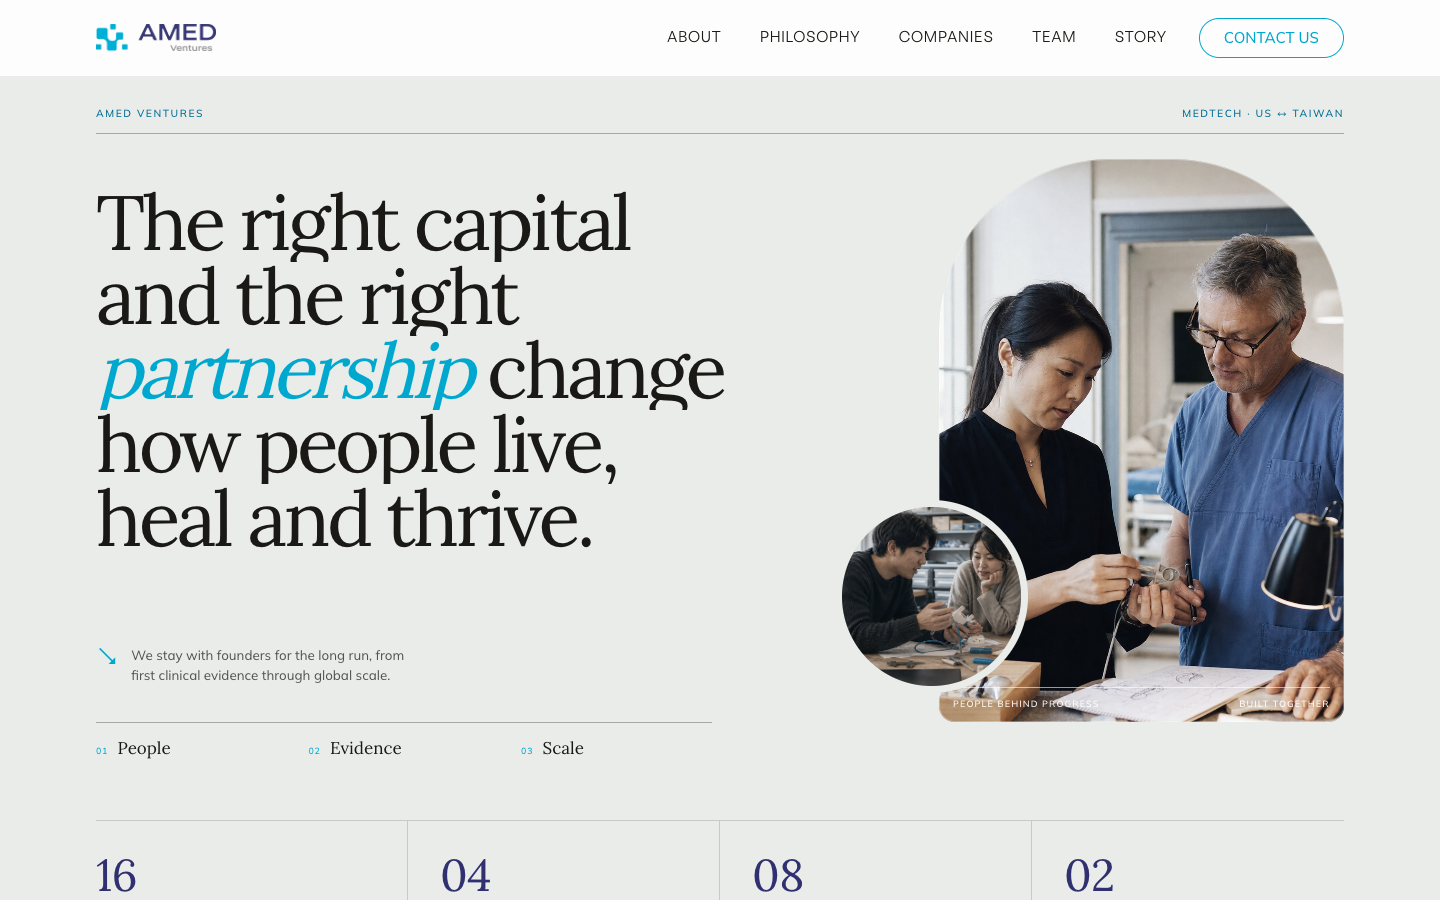
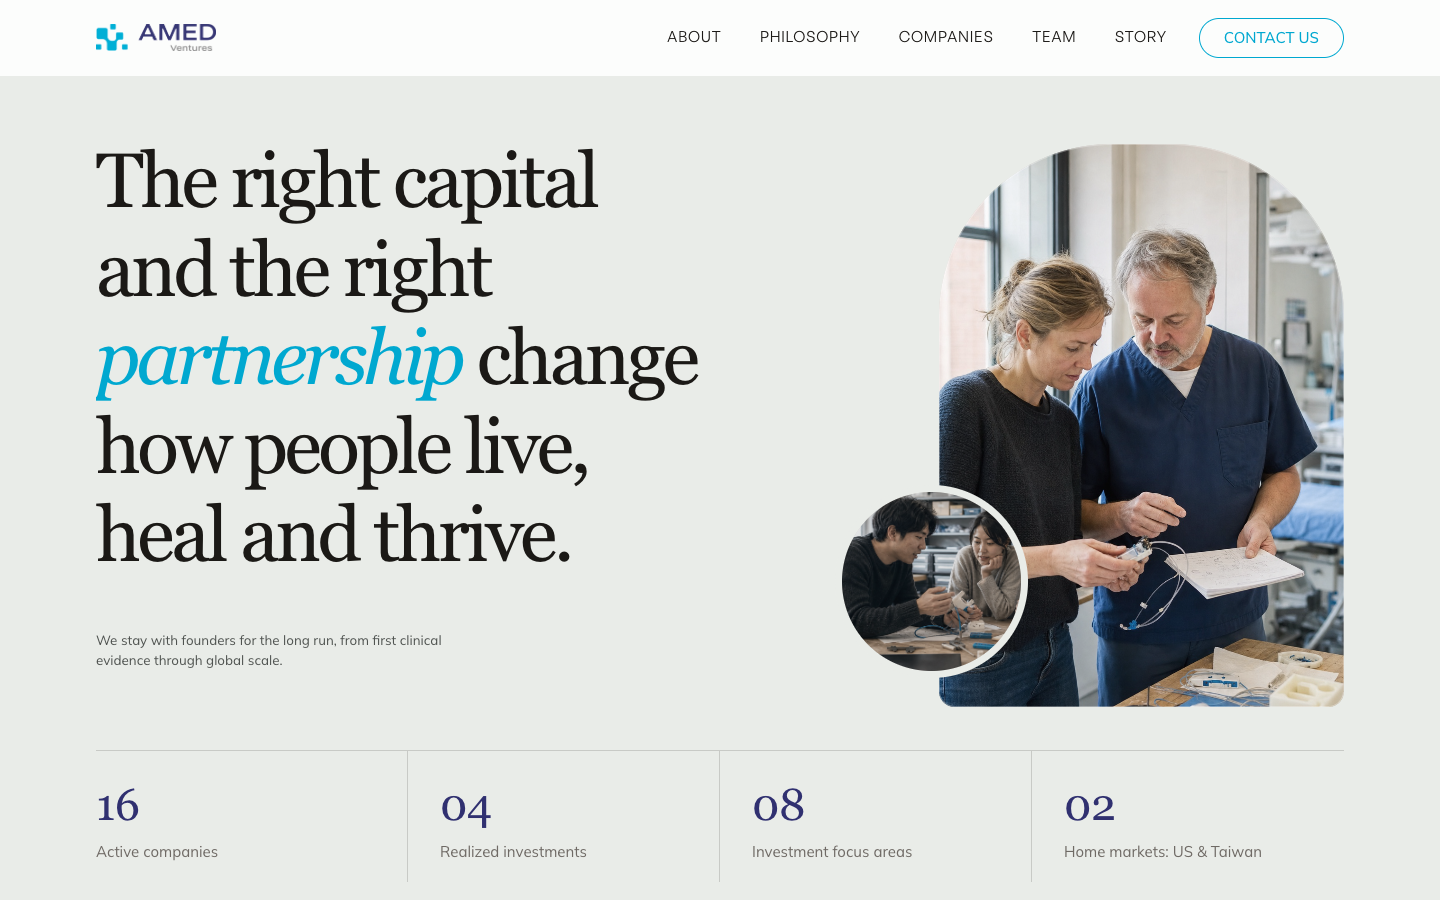
Refine concept C hero photography and details

diff --git a/src/app/c/page.module.css b/src/app/c/page.module.css
@@ -111,11 +111,10 @@
 /* Only the hero differs from B. The cover-like composition combines an enduring-partnership
    voice, generous institutional typography and close documentary observation of the builders. */
 .heroHuman { overflow: hidden; background: #e9ece8; }
-.heroHuman .heroEditorial { min-height: 58vw; padding-top: 7.55vw; display: grid; grid-template-columns: repeat(12, minmax(0, 1fr)); grid-template-rows: auto auto auto auto; column-gap: 1.1vw; }
-.heroEditorialLabel { grid-column: 1 / -1; grid-row: 1; padding-bottom: 1vw; display: flex; justify-content: space-between; border-bottom: 1px solid rgba(27,25,22,.32); color: var(--brand-deep); font: 500 .72vw/1 "Mulish", sans-serif; letter-spacing: .15em; text-transform: uppercase; opacity: 0; animation: cFade .8s .05s var(--ease-out) forwards; }
-.heroEditorialCopy { z-index: 2; grid-column: 1 / 9; grid-row: 2; padding: 3.7vw 0 2.5vw; align-self: stretch; display: flex; flex-direction: column; }
+.heroHuman .heroEditorial { min-height: 54vw; padding-top: 10vw; display: grid; grid-template-columns: repeat(12, minmax(0, 1fr)); grid-template-rows: auto auto; column-gap: 1.1vw; }
+.heroEditorialCopy { z-index: 2; grid-column: 1 / 9; grid-row: 1; padding: 0 0 2.5vw; align-self: stretch; display: flex; flex-direction: column; }
 .heroEditorialCopy h1 { margin: 0; color: var(--ink-b); font: 400 5.35vw/.87 var(--serif); letter-spacing: -.045em; }
-.heroEditorialCopy h1 > span { display: block; overflow: hidden; padding: 0 .08em .09em 0; }
+.heroEditorialCopy h1 > span { display: block; overflow: hidden; margin: -.12em 0; padding: .16em .08em .24em 0; }
 .heroEditorialCopy h1 > span > span { display: block; transform: translateY(112%); animation: cLine 1s var(--ease-out) forwards; }
 .heroEditorialCopy h1 > span:nth-child(1) > span { animation-delay: .12s; }
 .heroEditorialCopy h1 > span:nth-child(2) > span { animation-delay: .19s; }
@@ -123,27 +122,21 @@
 .heroEditorialCopy h1 > span:nth-child(4) > span { animation-delay: .33s; }
 .heroEditorialCopy h1 > span:nth-child(5) > span { animation-delay: .4s; }
 .heroEditorialCopy h1 em { color: var(--brand); font-style: italic; font-weight: 400; letter-spacing: -.055em; }
-.heroEditorialNote { width: 22vw; margin-top: auto; padding-top: 3.5vw; display: grid; grid-template-columns: auto 1fr; gap: .9vw; align-items: start; color: #4f5350; opacity: 0; transform: translateY(1vw); animation: cNote .9s .72s var(--ease-out) forwards; }
-.heroEditorialNote > span { color: var(--brand); font: 300 1.55vw/1 "Mulish", sans-serif; }
+.heroEditorialNote { width: 25vw; margin-top: auto; padding-top: 3.5vw; color: #4f5350; opacity: 0; transform: translateY(1vw); animation: cNote .9s .72s var(--ease-out) forwards; }
 .heroEditorialNote p { margin: 0; font: 400 .93vw/1.55 "Mulish", sans-serif; }
-.heroEditorialPortrait { position: relative; z-index: 1; grid-column: 9 / -1; grid-row: 2; width: 100%; margin: 1.7vw 0 0; align-self: start; overflow: hidden; aspect-ratio: .72; border-radius: 12vw 12vw 1.1vw 1.1vw; background: #d7d4ce; opacity: 0; transform: translateY(2vw); animation: cPortrait 1.15s .16s var(--ease-out) forwards; }
+.heroEditorialPortrait { position: relative; z-index: 1; grid-column: 9 / -1; grid-row: 1; width: 100%; margin: 0; align-self: start; overflow: hidden; aspect-ratio: .72; border-radius: 12vw 12vw 1.1vw 1.1vw; background: #d7d4ce; opacity: 0; transform: translateY(2vw); animation: cPortrait 1.15s .16s var(--ease-out) forwards; }
 .heroEditorialPortrait::after { content: ""; position: absolute; inset: 0; border: 1px solid rgba(255,255,255,.32); border-radius: inherit; pointer-events: none; }
-.heroEditorialPortrait img { width: 100%; height: 100%; object-fit: cover; object-position: 50% 45%; filter: saturate(.82) contrast(.97); }
-.heroEditorialPortrait figcaption { position: absolute; right: 1vw; bottom: 1vw; left: 1vw; padding-top: .75vw; display: flex; justify-content: space-between; border-top: 1px solid rgba(255,255,255,.58); color: #fff; font: 500 .63vw/1 "Mulish", sans-serif; letter-spacing: .12em; text-transform: uppercase; text-shadow: 0 1px 14px rgba(0,0,0,.28); }
-.heroEditorialDetail { position: relative; z-index: 3; grid-column: 7 / 10; grid-row: 2; width: 13.4vw; margin: 0 0 2vw; align-self: end; justify-self: end; overflow: hidden; aspect-ratio: 1; border: .55vw solid #e9ece8; border-radius: 50%; background: #d7d4ce; opacity: 0; transform: translateY(1.5vw); animation: cDetail 1s .55s var(--ease-out) forwards; }
+.heroEditorialPortrait img { width: 100%; height: 100%; object-fit: cover; object-position: 50% 45%; filter: saturate(.86) contrast(.96) brightness(1.03); }
+.heroEditorialDetail { position: relative; z-index: 3; grid-column: 7 / 10; grid-row: 1; width: 13.4vw; margin: 0 0 2vw; align-self: end; justify-self: end; overflow: hidden; aspect-ratio: 1; border: .55vw solid #e9ece8; border-radius: 50%; background: #d7d4ce; opacity: 0; transform: translateY(1.5vw); animation: cDetail 1s .55s var(--ease-out) forwards; }
 .heroEditorialDetail img { width: 100%; height: 100%; object-fit: cover; object-position: 34% center; filter: saturate(.72) contrast(.96); }
-.heroEditorialIndex { grid-column: 1 / 7; grid-row: 3; padding: 1.15vw 0 1.6vw; display: grid; grid-template-columns: repeat(3, 1fr); gap: 1.5vw; border-top: 1px solid rgba(27,25,22,.32); }
-.heroEditorialIndex div { display: grid; grid-template-columns: auto 1fr; gap: .65vw; align-items: baseline; }
-.heroEditorialIndex span { color: var(--brand); font: 500 .62vw/1 "Mulish", sans-serif; letter-spacing: .08em; }
-.heroEditorialIndex strong { color: var(--ink-b); font: 400 1.18vw/1 var(--serif); }
-.heroEditorial > .stats { grid-column: 1 / -1; grid-row: 4; }
+.heroEditorial > .stats { grid-column: 1 / -1; grid-row: 2; margin-top: 3vw; }
 @keyframes cLine { to { transform: none; } }
 @keyframes cFade { to { opacity: 1; } }
 @keyframes cNote { to { opacity: 1; transform: none; } }
 @keyframes cPortrait { to { opacity: 1; transform: none; } }
 @keyframes cDetail { to { opacity: 1; transform: none; } }
 @media (prefers-reduced-motion: reduce) {
-  .heroEditorialLabel, .heroEditorialCopy h1 > span > span, .heroEditorialNote, .heroEditorialPortrait, .heroEditorialDetail { opacity: 1; transform: none; animation: none; }
+  .heroEditorialCopy h1 > span > span, .heroEditorialNote, .heroEditorialPortrait, .heroEditorialDetail { opacity: 1; transform: none; animation: none; }
 }
 
 /* Four ruled columns under the hero — the same divider rhythm the rest of the site uses. */
@@ -574,21 +567,14 @@
   .headerCta { height: 2.4rem; padding: 0 1rem; display: inline-flex; align-items: center; font-size: .75rem; letter-spacing: .04em; }
   .backToTop { right: .75rem; bottom: .75rem; width: 2.275rem; height: 2.275rem; }
   .hero { padding: 7rem 0 .75rem; }
-  .heroHuman .heroEditorial { min-height: 0; padding-top: 6.5rem; grid-template-columns: repeat(8, minmax(0, 1fr)); grid-template-rows: auto auto auto auto auto; column-gap: .75rem; }
-  .heroEditorialLabel { padding-bottom: .8rem; font-size: .64rem; }
-  .heroEditorialCopy { grid-column: 1 / 6; grid-row: 2; padding: 2.6rem 0 2rem; }
+  .heroHuman .heroEditorial { min-height: 0; padding-top: 7.5rem; grid-template-columns: repeat(8, minmax(0, 1fr)); grid-template-rows: auto auto; column-gap: .75rem; }
+  .heroEditorialCopy { grid-column: 1 / 6; grid-row: 1; padding: 0 0 2rem; }
   .heroEditorialCopy h1 { font-size: clamp(3.15rem, 7.45vw, 4.25rem); line-height: .91; }
-  .heroEditorialNote { width: min(19rem, 72%); margin-top: 2.5rem; padding-top: 0; gap: .75rem; }
-  .heroEditorialNote > span { font-size: 1.25rem; }
+  .heroEditorialNote { width: min(19rem, 72%); margin-top: 2.5rem; padding-top: 0; }
   .heroEditorialNote p { font-size: .9rem; }
-  .heroEditorialPortrait { grid-column: 6 / -1; grid-row: 2; margin-top: 2.4rem; aspect-ratio: .7; border-radius: 8rem 8rem .8rem .8rem; }
-  .heroEditorialPortrait figcaption { right: .75rem; bottom: .75rem; left: .75rem; padding-top: .6rem; font-size: .55rem; }
-  .heroEditorialDetail { grid-column: 5 / 7; grid-row: 2; width: 8rem; margin-bottom: 1.5rem; border-width: .35rem; }
-  .heroEditorialIndex { grid-column: 1 / 6; grid-row: 3; padding: 1rem 0 1.25rem; gap: 1rem; }
-  .heroEditorialIndex div { gap: .4rem; }
-  .heroEditorialIndex span { font-size: .55rem; }
-  .heroEditorialIndex strong { font-size: .95rem; }
-  .heroEditorial > .stats { grid-row: 5; }
+  .heroEditorialPortrait { grid-column: 6 / -1; grid-row: 1; margin-top: 0; aspect-ratio: .7; border-radius: 8rem 8rem .8rem .8rem; }
+  .heroEditorialDetail { grid-column: 5 / 7; grid-row: 1; width: 8rem; margin-bottom: 1.5rem; border-width: .35rem; }
+  .heroEditorial > .stats { grid-row: 2; }
   .contactPoints, .firmInner { grid-template-columns: 1fr; }
   .firmInner { gap: 2px; }
   .firmEvidence, .firmStatement { min-height: auto; padding: 2rem 1.5rem; }
@@ -649,20 +635,15 @@
 
 @media (max-width: 640px) {
   .aboutInner { grid-template-columns: 1fr; }
-  .heroHuman .heroEditorial { display: grid; grid-template-columns: repeat(6, minmax(0, 1fr)); padding-top: 5.75rem; }
-  .heroEditorialLabel span:last-child { display: none; }
-  .heroEditorialCopy { z-index: 4; grid-column: 1 / -1; grid-row: 2; padding: 2rem 0 1.65rem; }
+  .heroHuman .heroEditorial { display: grid; grid-template-columns: repeat(6, minmax(0, 1fr)); grid-template-rows: auto auto auto; padding-top: 6.5rem; }
+  .heroEditorialCopy { z-index: 4; grid-column: 1 / -1; grid-row: 1; padding: 0 0 1.65rem; }
   .heroEditorialCopy h1 { font-size: clamp(2.8rem, 13.3vw, 4rem); line-height: .89; }
   .heroEditorialCopy h1 > span:nth-child(3) { padding-right: 0; }
   .heroEditorialCopy h1 em { color: var(--brand-deep); }
   .heroEditorialNote { width: 62%; margin-top: 2rem; }
-  .heroEditorialPortrait { grid-column: 3 / -1; grid-row: 3; margin: 0; aspect-ratio: .72; border-radius: 9rem 9rem .75rem .75rem; }
-  .heroEditorialPortrait figcaption { font-size: .48rem; }
-  .heroEditorialPortrait figcaption span:last-child { display: none; }
-  .heroEditorialDetail { grid-column: 1 / 4; grid-row: 3; z-index: 3; width: 7.5rem; margin: 0 0 1.5rem; align-self: end; justify-self: start; }
-  .heroEditorialIndex { grid-column: 1 / -1; grid-row: 4; padding-top: 1.2rem; }
-  .heroEditorialIndex strong { font-size: .82rem; }
-  .heroEditorial > .stats { grid-row: 5; }
+  .heroEditorialPortrait { grid-column: 3 / -1; grid-row: 2; margin: 0; aspect-ratio: .72; border-radius: 9rem 9rem .75rem .75rem; }
+  .heroEditorialDetail { grid-column: 1 / 4; grid-row: 2; z-index: 3; width: 7.5rem; margin: 0 0 1.5rem; align-self: end; justify-self: start; }
+  .heroEditorial > .stats { grid-row: 3; }
   .dialogWordmark { font-size: 2.15rem; }
   .dialogCopy { font-size: 17px; line-height: 1.55; }
   .dialogFacts { grid-template-columns: 1fr 1fr; align-items: baseline; gap: .45rem 1rem; }

diff --git a/src/app/c/page.tsx b/src/app/c/page.tsx
@@ -379,11 +379,6 @@ export default function ProposalC() {
 
       <section className={`${styles.heroBand} ${styles.heroHuman}`}>
         <div className={`${styles.section} ${styles.hero} ${styles.heroEditorial}`}>
-          <div className={styles.heroEditorialLabel}>
-            <span>AMED Ventures</span>
-            <span>MedTech · US ↔ Taiwan</span>
-          </div>
-
           <div className={styles.heroEditorialCopy}>
             <h1 aria-label="The right capital and the right partnership change how people live, heal and thrive.">
               <span><span>The right capital</span></span>
@@ -393,34 +388,23 @@ export default function ProposalC() {
               <span><span>heal and thrive.</span></span>
             </h1>
             <div className={styles.heroEditorialNote}>
-              <span aria-hidden>↘</span>
               <p>We stay with founders for the long run, from first clinical evidence through global scale.</p>
             </div>
           </div>
 
           <figure className={styles.heroEditorialPortrait}>
             <Image
-              src="/images/amed/hero-c-editorial-v2.jpg"
-              alt="A medical-device founder and clinician carefully reviewing a prototype together"
+              src="/images/amed/hero-c-editorial-v3.jpg"
+              alt="A medical-device founder and clinician reviewing a prototype together in natural daylight"
               width={972}
               height={1619}
               priority
             />
-            <figcaption>
-              <span>People behind progress</span>
-              <span>Built together</span>
-            </figcaption>
           </figure>
 
           <figure className={styles.heroEditorialDetail} aria-hidden="true">
             <Image src="/images/amed/hero-c-01.jpg" alt="" width={1983} height={793} />
           </figure>
-
-          <div className={styles.heroEditorialIndex} aria-label="AMED investment approach">
-            <div><span>01</span><strong>People</strong></div>
-            <div><span>02</span><strong>Evidence</strong></div>
-            <div><span>03</span><strong>Scale</strong></div>
-          </div>
 
           {/* The counters are keyed on the run counter: clicking the lockup remounts them so they
               count up again, while the cards themselves keep their revealed state. */}

diff --git a/docs/research/ASSET_PROVENANCE.md b/docs/research/ASSET_PROVENANCE.md
@@ -42,10 +42,13 @@ were used. Final JPEG assets:
 - `public/images/amed/hero-c-03.jpg`
 - `public/images/amed/hero-c-editorial-v2.jpg` — vertical founder-and-clinician documentary
   portrait generated with the built-in image-generation tool for the redesigned editorial hero.
+- `public/images/amed/hero-c-editorial-v3.jpg` — brighter natural-window-light replacement with
+  white founder and clinician subjects, low contrast and no embedded typography.
 
 The built-in edit workflow was also used on 2026-08-12 to repair only the visible studio
 background seams in the shared Fred Shen and Hank Huang portraits, preserving the supplied
-identities, pose, crop and clothing:
+identities, pose, crop and clothing. Fred received a second, stricter uniform-background pass
+after validating the portrait in its production circular crop:
 
 - `public/images/team-client/fred-shen-unified.png`
 - `public/images/team-client/hank-huang-unified.png`
